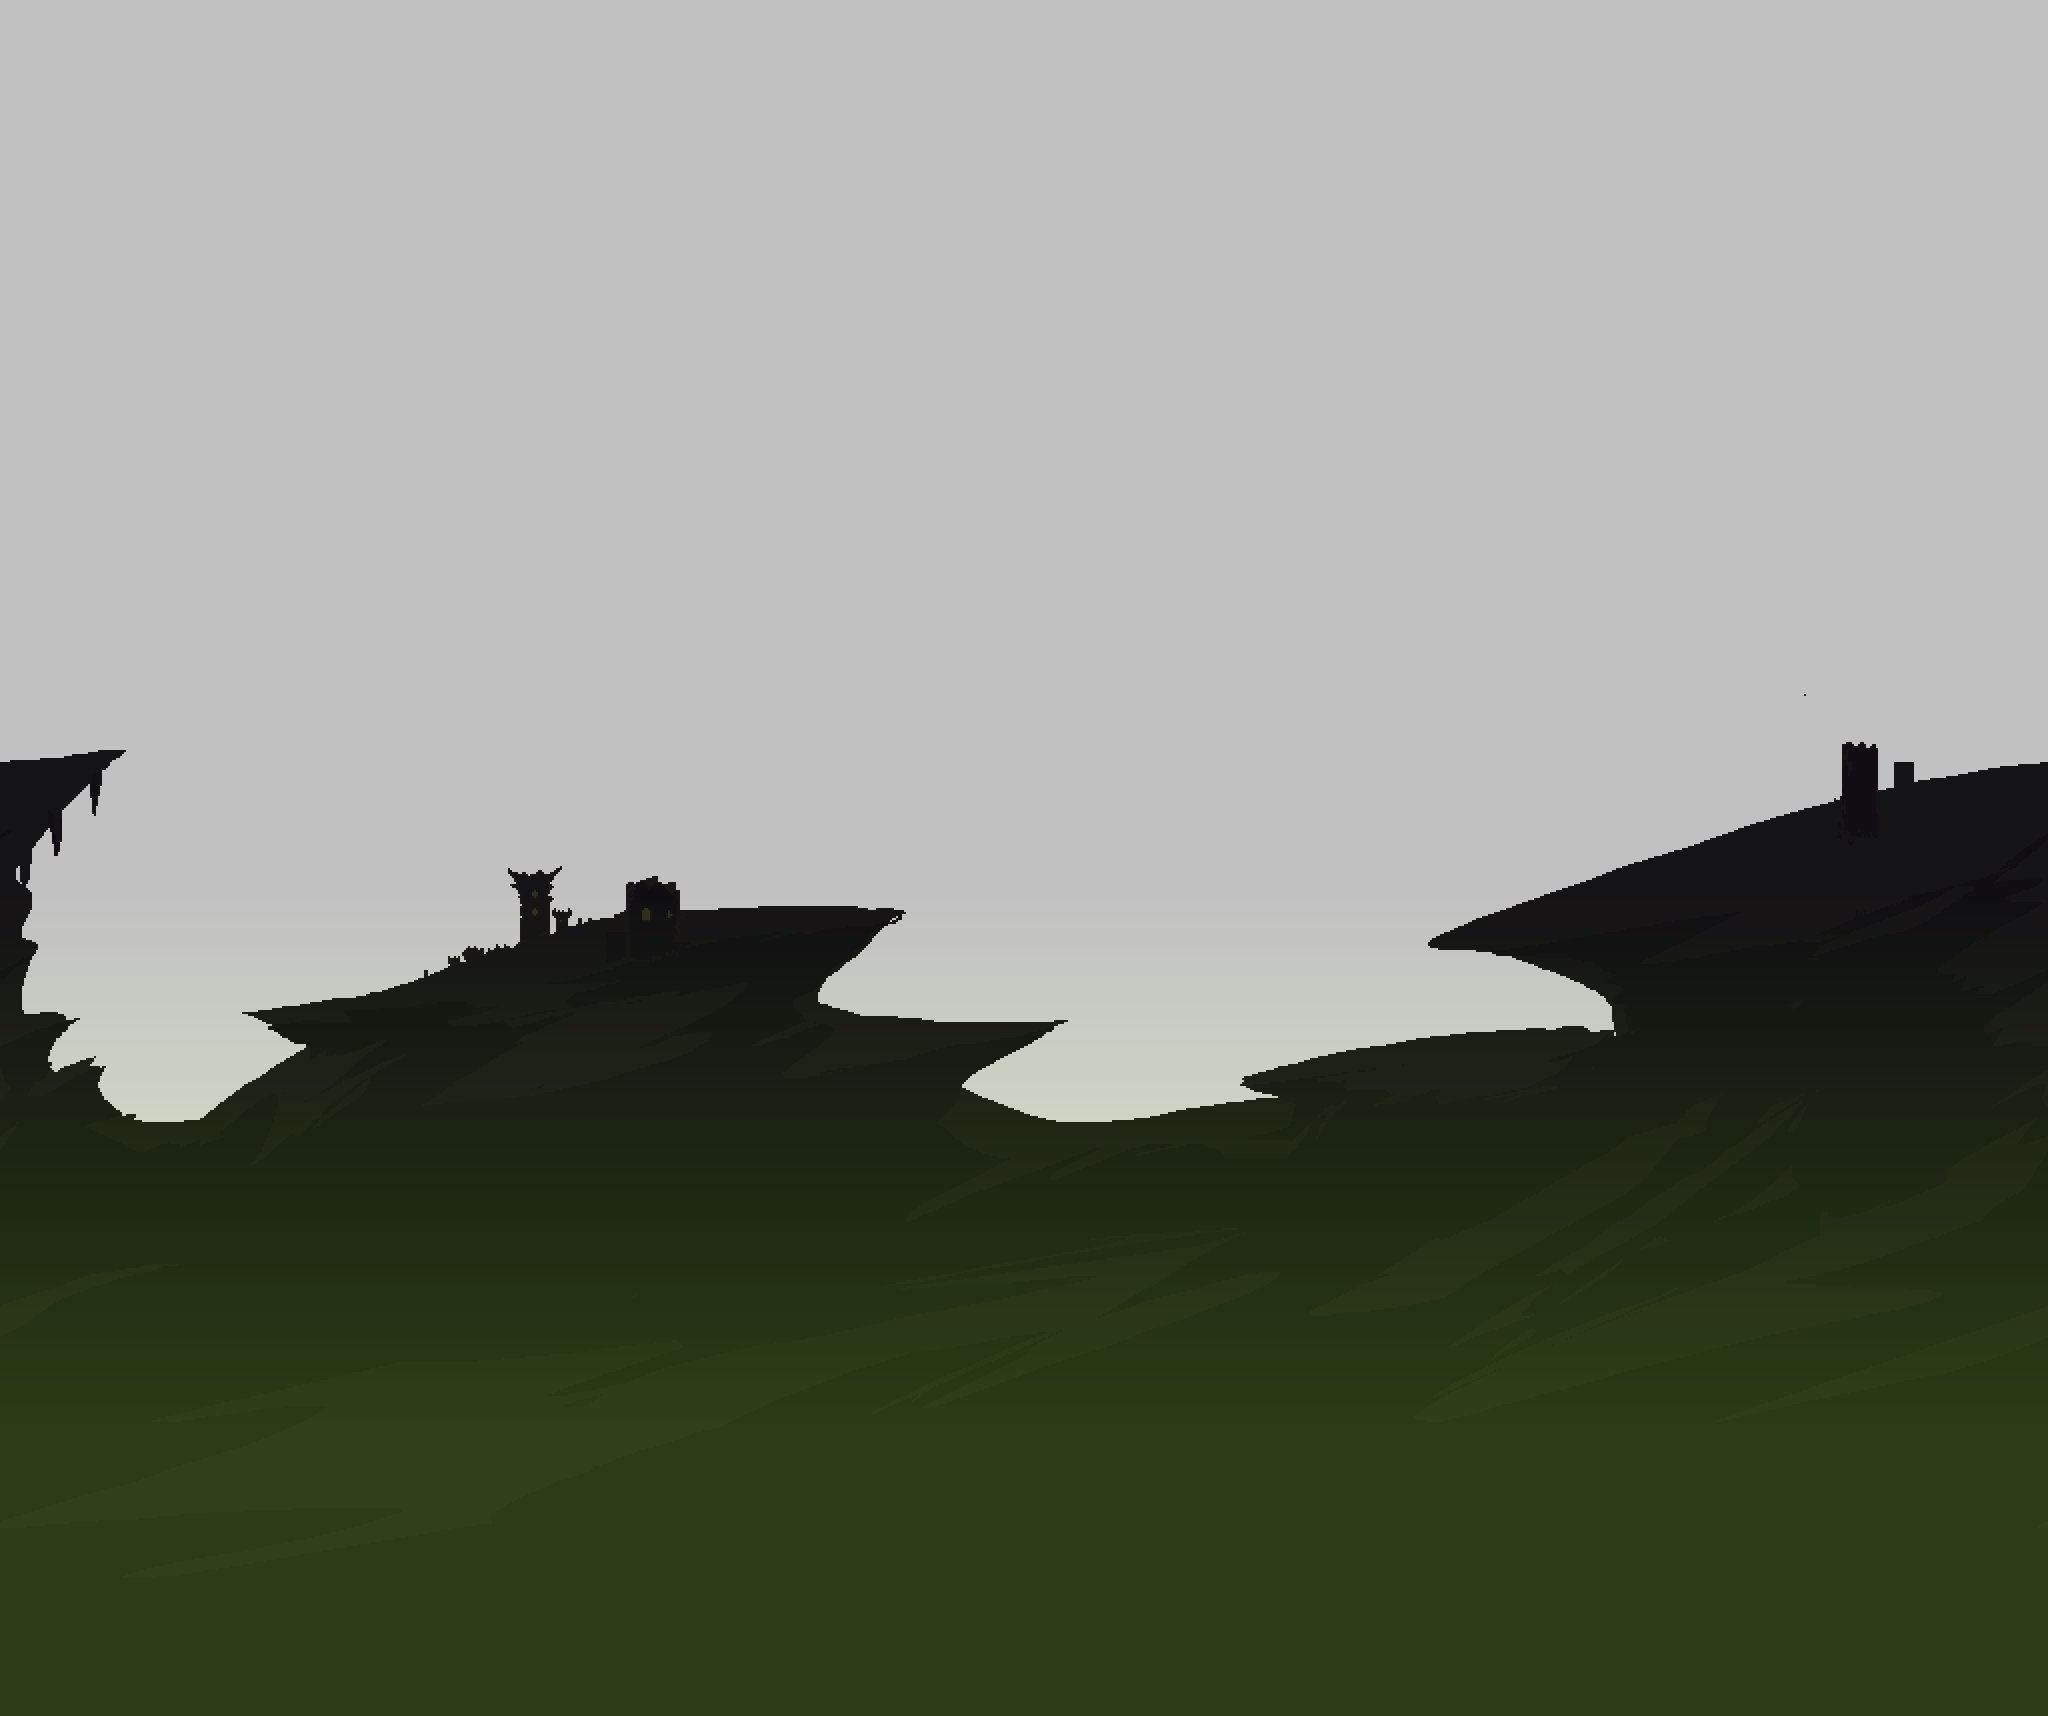
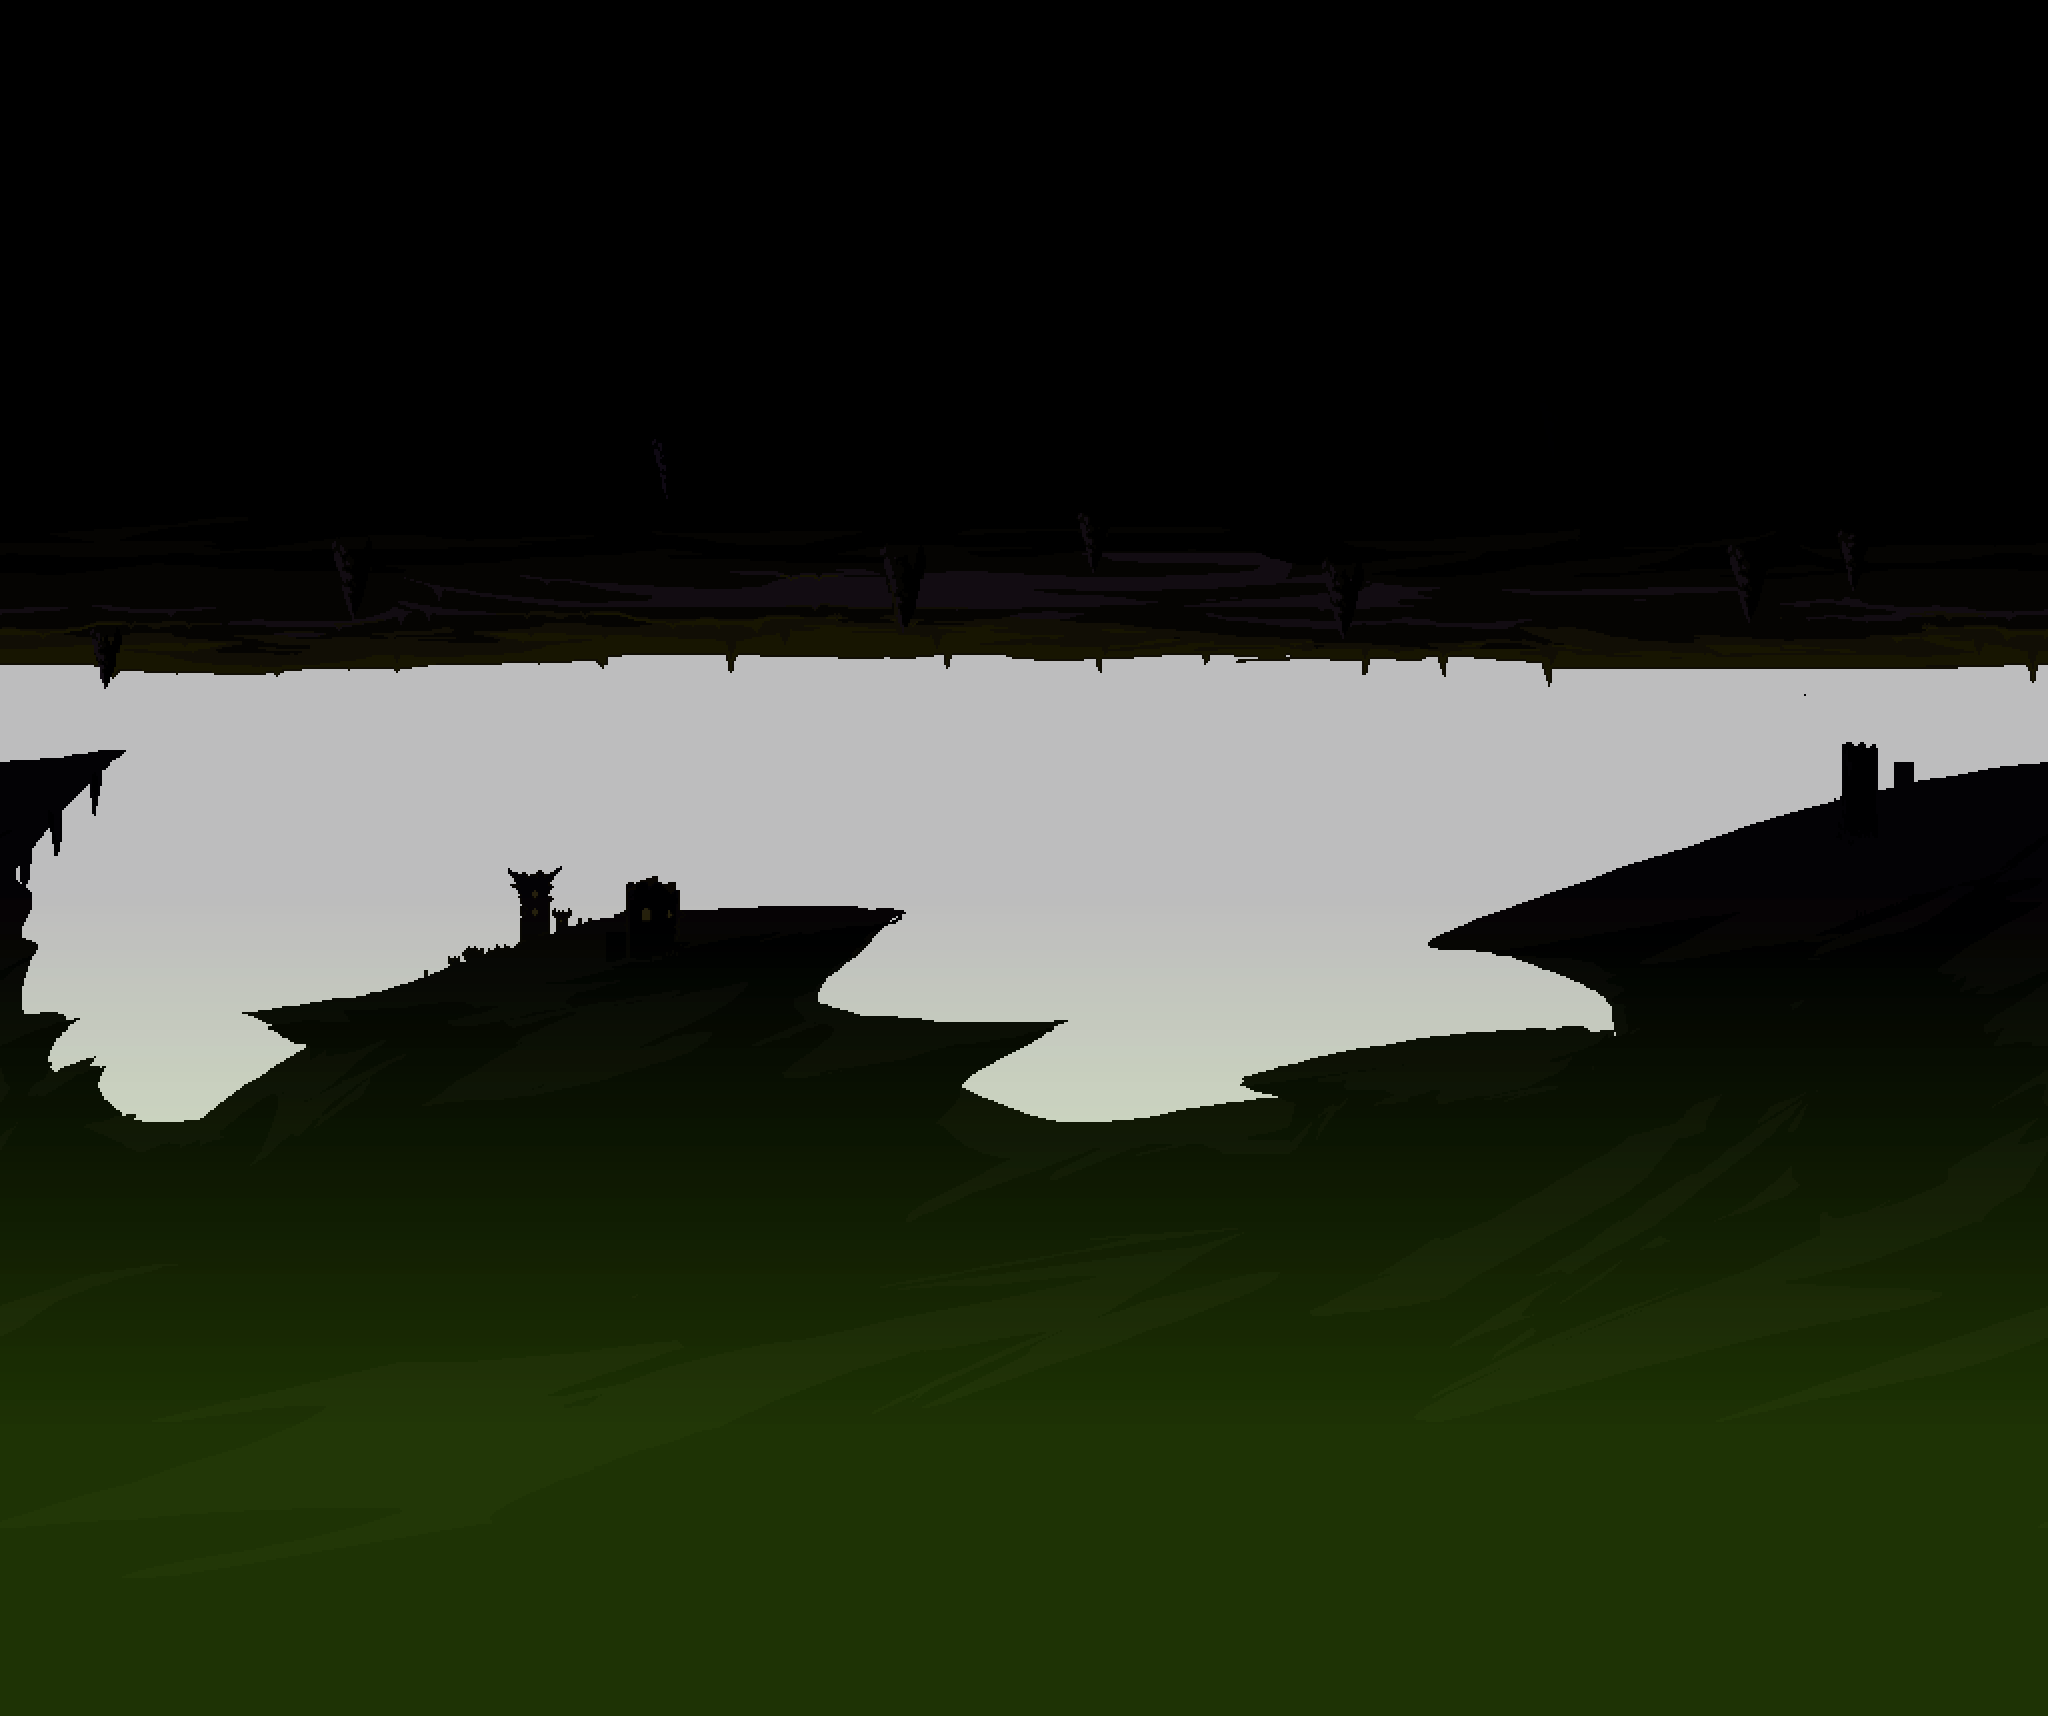
revisions (bg +  HeadP + Eye)
visual changes on the hammer and background, made the eye move smoother

diff --git a/src/EvilExpansionMod/Content/Crimson/NPCs/_ThoughtfulCultist/CultistEye.cs b/src/EvilExpansionMod/Content/Crimson/NPCs/_ThoughtfulCultist/CultistEye.cs
@@ -23,8 +23,6 @@ public class CultistEye : ModNPC {
             PortraitPositionXOverride = 0f,
             PortraitPositionYOverride = 2f
         };
-        NPCID.Sets.TrailingMode[NPC.type] = 0;
-        NPCID.Sets.TrailCacheLength[NPC.type] = 5;
         NPCID.Sets.NPCBestiaryDrawOffset.Add(NPC.type, drawModifier);
         Main.npcFrameCount[Type] = 3;
 
@@ -97,47 +95,38 @@ public class CultistEye : ModNPC {
 
         var moveDirection = NPC.Center.DirectionTo(target.Center);
         NPC.velocity += moveDirection * 0.3f * DifficultyScaler * (1 + distanceToTarget / 16 / 20);
-        NPC.velocity += 1f * Main.rand.NextFloatDirection()
-            * MathF.Sin(NPC.whoAmI * 0.3f + Main.GameUpdateCount * 0.1f)
-            * moveDirection.RotatedBy(MathF.PI / 2f)
-            * (1 + distanceToTarget / 16 / 40);
+
+        NPC.velocity = Vector2.Lerp(NPC.velocity, moveDirection, 0.02f); 
 
         NPC.velocity *= 0.93f;
         NPC.rotation = NPC.velocity.ToRotation() + MathF.PI;
 
 
-
+        //this is really wack and i did this on a whim but it seemed easiest to do it like this so here's my explanation and thoughtprocess to any unlucky future programmer or future tobias lol;
         if(Main.rand.NextBool(200) && (DashWindupTimer <= 0)) //randomly decidess ifff the eye windsup a dash
         {
             DashWindupTimer =30;
         }
-
-
-
+            
         if(DashWindupTimer != 0)  //windup timer starts
-            {
+        {
             DashWindupTimer--;
-            NPC.velocity -= moveDirection * 0.80f;
+            NPC.velocity -= moveDirection * 1.3f;
+            NPC.velocity += 1f * MathF.Sin(NPC.whoAmI * 0.3f + Main.GameUpdateCount * 0.1f) * moveDirection.RotatedBy(MathF.PI / 2f);
         }
         ;
-        if(DashWindupTimer == 1) //when the windup timer hits 1 it adds to the dash timer
-            {
+        if(DashWindupTimer == 1) //when the windup timer hits 1 it adds to the dash timer, and when it does it captures the last known movedirection that's updated before the dash starts
+        {
             dashDirection = moveDirection;
             DashTimer = 20;
-            };
-        if(DashTimer != 0) //timer that decides how long it should  alast
-            {
+        };
+        if(DashTimer != 0) //timer that decides how long the dash should last, uses "dashdirection" so it doesnt perfectly home in on the player
+        {
             DashTimer--;
             SoundEngine.PlaySound(SoundID.Roar with { Volume = 0.1f } with { PitchRange = (0.4f, 1f) });
             moveDirection = dashDirection;
-            NPC.velocity += moveDirection * 1.9f;
-            
-
-
-        }
-        ;
-
-
+            NPC.velocity += moveDirection * 3f;
+        }; //thanks for coming to my tedtalk
 
         if(Main.rand.NextBool(6)) {
             Dust.NewDust(NPC.position, NPC.width, NPC.height, DustID.Blood);

diff --git a/src/EvilExpansionMod/Content/Corruption/Items/_HeadPounder/HeadPounderHeldProjectile.cs b/src/EvilExpansionMod/Content/Corruption/Items/_HeadPounder/HeadPounderHeldProjectile.cs
@@ -154,7 +154,7 @@ public class HeadPounderHeldProjectile : ModProjectile {
                         hitCenter.Y += 8f;
                         Projectile.NewProjectile(
                             Projectile.GetSource_FromThis(),
-                            hitCenter - Vector2.UnitY * 5, // Does the "- Vector2.UnitY * 5" bit even do anything......
+                            hitCenter - Vector2.UnitY * 5, // Does the "- Vector2.UnitY * 5" bit even do anything...... idk, you're the one who wrote it lol
                             Vector2.Zero,
                             ModContent.ProjectileType<MaceCrack>(),
                             0,
@@ -458,14 +458,19 @@ public class HeadPounderHeldProjectile : ModProjectile {
         var rotation = (Projectile.rotation + MathF.PI / 4f) * Owner.direction;
         Vector2 origin = new(offset - 5f, texture.Height - offset);
 
-        var trailColor = new Color(96, 91, 206) * _outlineAlpha * 0.4f;
+        var trailColor = new Color(174, 203, 5) * _outlineAlpha * 0.4f;
 
         Graphics.BeginPixelated(Graphics.WorldTransformMatrix)
             .SetTexture(TextureAssets.MagicPixel.Value)
             .DrawTrail(
                 _trailPositions.Select(p => p + Projectile.position).ToArray(),
-                static t => (1.25f - t) * 20f,
-                _ => trailColor
+                static t => (1.25f - t) * 20f ,
+                t => Color.Lerp(trailColor, new Color(0, 0, 0, 0), t)
+            )
+            .DrawTrail(
+                _trailPositions.Select(p => p + Projectile.position).ToArray(),
+                static t => (1.25f - t) * 25f,
+                t => Color.Lerp(new Color(105f, 136f, 20f), new Color(0, 0, 0, 0), t)
             )
             .SetSamplerState(SamplerState.PointClamp)
             .DrawTexture(new()
@@ -478,8 +483,8 @@ public class HeadPounderHeldProjectile : ModProjectile {
                 Scale = Vector2.One * Projectile.scale,
                 SpriteEffects = Owner.direction == 1 ? SpriteEffects.None : SpriteEffects.FlipHorizontally
             })
-            .ApplyOutline(trailColor)
-            .ApplyOutline(new Color(230, 255, 5) * _outlineAlpha)
+            //.ApplyOutline(trailColor)
+            //.ApplyOutline(new Color(5, 30, 0, 0) * _outlineAlpha) didy
             .End();
 
         var tintFlashFrames = 15;
